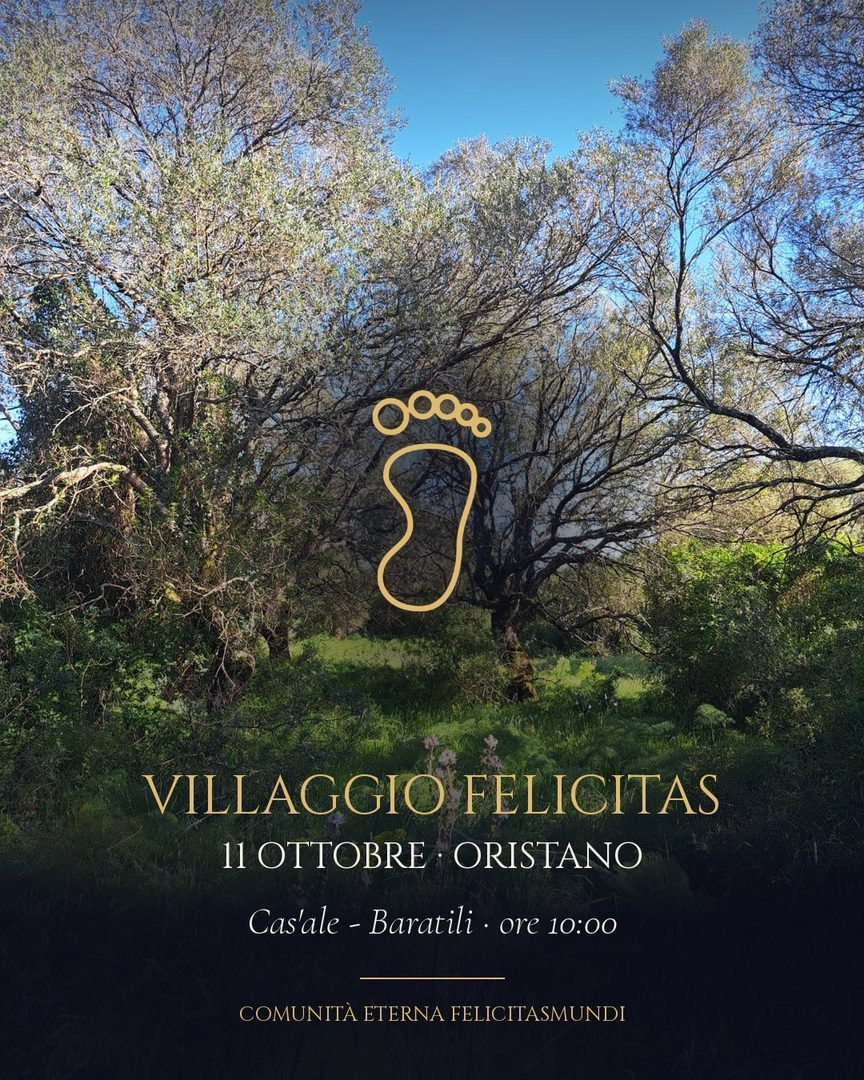
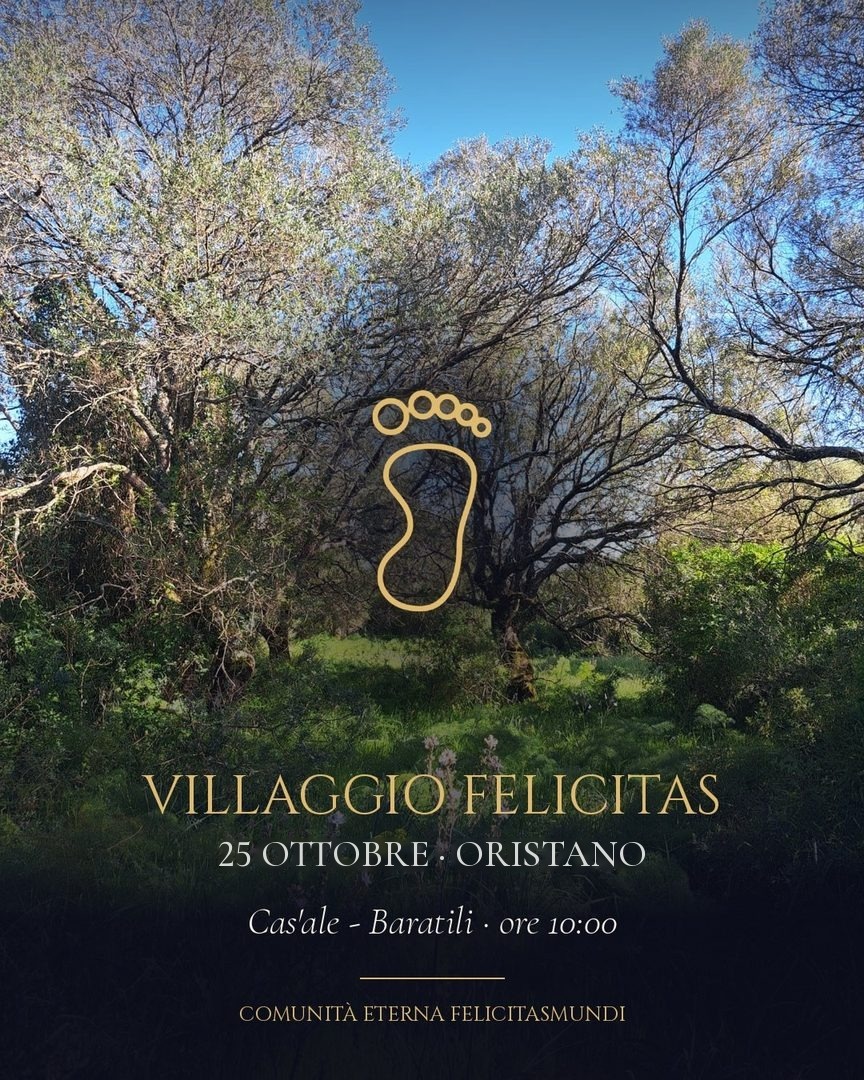
L'incontro del Villaggio Felicitas passa al 25 ottobre: vetrina, inviti, immagini, testo di WhatsApp
Claude-Session: https://claude.ai/code/session_01LfRssmsk3sgs8MPzqQCKWN

Changed region(s): [[0.25, 0.7639, 0.5, 0.825], [0.5312, 0.7639, 0.75, 0.825]]

diff --git a/index.html b/index.html
@@ -21,7 +21,7 @@
 <meta property="og:title" content="FelicitasMundi · Comunità Eterna">
 <meta property="og:description" content="Una piattaforma che connette comunità contadine e spirituali: villaggi, eventi, Emporio, Assistenza, Scuola.">
 <meta property="og:url" content="https://app.felicitasmundi.com/">
-<meta property="og:image" content="https://app.felicitasmundi.com/communitas-aeterna/inviti/11-ottobre-largo.jpg">
+<meta property="og:image" content="https://app.felicitasmundi.com/communitas-aeterna/inviti/11-ottobre-largo.jpg?v=25">
 <meta property="og:image:width" content="1200">
 <meta property="og:image:height" content="630">
 <meta name="twitter:card" content="summary_large_image">
@@ -32,9 +32,9 @@
 {"@context":"https://schema.org","@graph":[
  {"@type":"Organization","name":"FelicitasMundi · Comunità Eterna","url":"https://app.felicitasmundi.com/","logo":"https://app.felicitasmundi.com/communitas-aeterna/felicitas-icona.png?v=1004",
   "legalName":"Felicitas Omnia S.r.l.s.","address":{"@type":"PostalAddress","addressLocality":"Sassari","addressCountry":"IT"},"vatID":"IT03075740906"},
- {"@type":"Event","name":"Villaggio Felicitas - 11 ottobre Oristano","startDate":"2026-10-11T10:00:00+02:00","eventAttendanceMode":"https://schema.org/OfflineEventAttendanceMode","eventStatus":"https://schema.org/EventScheduled",
+ {"@type":"Event","name":"Villaggio Felicitas - 25 ottobre Oristano","startDate":"2026-10-25T10:00:00+02:00","eventAttendanceMode":"https://schema.org/OfflineEventAttendanceMode","eventStatus":"https://schema.org/EventScheduled",
   "location":{"@type":"Place","name":"Cas'ale di Alessandra","address":{"@type":"PostalAddress","addressLocality":"Baratili San Pietro","addressRegion":"OR","addressCountry":"IT"}},
-  "image":"https://app.felicitasmundi.com/communitas-aeterna/inviti/11-ottobre-largo.jpg",
+  "image":"https://app.felicitasmundi.com/communitas-aeterna/inviti/11-ottobre-largo.jpg?v=25",
   "description":"Il primo incontro tra i vicinati della Sardegna, al Cas'ale di Alessandra, zona Baratili, pochi chilometri da Oristano.",
   "organizer":{"@type":"Organization","name":"FelicitasMundi","url":"https://app.felicitasmundi.com/"},
   "url":"https://app.felicitasmundi.com/communitas-aeterna/index.html?p=evento&e=1d8ba038-2393-49fb-9493-3511c9e3ded6"}
@@ -115,17 +115,17 @@
       <a class="tasto vuoto" href="#villaggi">trova il tuo villaggio</a>
     </div>
   </div>
-  <a href="communitas-aeterna/index.html?p=evento&amp;e=1d8ba038-2393-49fb-9493-3511c9e3ded6"><img src="communitas-aeterna/inviti/11-ottobre-largo.jpg" alt="Villaggio Felicitas, 11 ottobre, Oristano" width="1200" height="630"></a>
+  <a href="communitas-aeterna/index.html?p=evento&amp;e=1d8ba038-2393-49fb-9493-3511c9e3ded6"><img src="communitas-aeterna/inviti/11-ottobre-largo.jpg?v=25" alt="Villaggio Felicitas, 25 ottobre, Oristano" width="1200" height="630"></a>
 </div>
 
 <section id="eventi">
   <div class="w">
     <div class="testa"><h2>Eventi</h2></div>
     <a class="ev" href="communitas-aeterna/index.html?p=evento&amp;e=1d8ba038-2393-49fb-9493-3511c9e3ded6">
-      <img src="communitas-aeterna/inviti/11-ottobre-largo.jpg" alt="">
+      <img src="communitas-aeterna/inviti/11-ottobre-largo.jpg?v=25" alt="">
       <div>
-        <span class="eti">domenica 11 ottobre · ore 10:00</span>
-        <h3>Villaggio Felicitas - 11 ottobre Oristano</h3>
+        <span class="eti">domenica 25 ottobre · ore 10:00</span>
+        <h3>Villaggio Felicitas - 25 ottobre Oristano</h3>
         <p class="cor">Il primo incontro tra i vicinati della Sardegna, al Cas'ale di Alessandra, zona Baratili, pochi chilometri da Oristano.</p>
         <span class="eti" style="letter-spacing:.14em">ci sarò ›</span>
       </div>

diff --git a/villaggio-felicitas-sardegna/invito-11-ottobre.html b/villaggio-felicitas-sardegna/invito-11-ottobre.html
@@ -7,27 +7,27 @@
      WhatsApp e i social non eseguono il codice della pagina: leggono solo queste righe. Questa pagina le ha,
      poi porta subito all'evento. 16:54, Gab: «preferirei invito 11 ottobre e un riferimento al villaggio felicitas
      sardegna» — l'indirizzo dice il villaggio e l'invito, non chi lo manda. -->
-<title>Villaggio Felicitas - 11 ottobre Oristano</title>
-<meta name="description" content="Il primo incontro tra i vicinati della Sardegna: logistica del territorio, punti di ritiro, Felicitas Festival, karma yoga. 11 ottobre, ore 10:00.">
+<title>Villaggio Felicitas - 25 ottobre Oristano</title>
+<meta name="description" content="Il primo incontro tra i vicinati della Sardegna: logistica del territorio, punti di ritiro, Felicitas Festival, karma yoga. 25 ottobre, ore 10:00.">
 <meta property="og:type" content="website">
 <meta property="og:site_name" content="Comunità Eterna FelicitasMundi">
-<meta property="og:title" content="Villaggio Felicitas - 11 ottobre Oristano">
-<meta property="og:description" content="Il primo incontro tra i vicinati della Sardegna: logistica del territorio, punti di ritiro, Felicitas Festival, karma yoga. 11 ottobre, ore 10:00.">
+<meta property="og:title" content="Villaggio Felicitas - 25 ottobre Oristano">
+<meta property="og:description" content="Il primo incontro tra i vicinati della Sardegna: logistica del territorio, punti di ritiro, Felicitas Festival, karma yoga. 25 ottobre, ore 10:00.">
 <meta property="og:url" content="https://app.felicitasmundi.com/villaggio-felicitas-sardegna/invito-11-ottobre.html">
-<meta property="og:image" content="https://app.felicitasmundi.com/communitas-aeterna/inviti/11-ottobre-largo.jpg">
-<meta property="og:image:secure_url" content="https://app.felicitasmundi.com/communitas-aeterna/inviti/11-ottobre-largo.jpg">
+<meta property="og:image" content="https://app.felicitasmundi.com/communitas-aeterna/inviti/11-ottobre-largo.jpg?v=25">
+<meta property="og:image:secure_url" content="https://app.felicitasmundi.com/communitas-aeterna/inviti/11-ottobre-largo.jpg?v=25">
 <meta property="og:image:type" content="image/jpeg">
 <meta property="og:image:width" content="1200">
 <meta property="og:image:height" content="630">
-<meta property="og:image:alt" content="Villaggio Felicitas · 11 ottobre · Oristano · Cas'ale - Baratili · ore 10:00">
+<meta property="og:image:alt" content="Villaggio Felicitas · 25 ottobre · Oristano · Cas'ale - Baratili · ore 10:00">
 <meta name="twitter:card" content="summary_large_image">
-<meta name="twitter:image" content="https://app.felicitasmundi.com/communitas-aeterna/inviti/11-ottobre-largo.jpg">
+<meta name="twitter:image" content="https://app.felicitasmundi.com/communitas-aeterna/inviti/11-ottobre-largo.jpg?v=25">
 <style>html,body{margin:0;background:#0A0C1A;color:#F5F0E6;font-family:Georgia,serif;min-height:100vh;display:flex;align-items:center;justify-content:center}a{color:#D4AF6A}</style>
 <script>
   location.replace("/communitas-aeterna/index.html?p=evento&e=1d8ba038-2393-49fb-9493-3511c9e3ded6");
 </script>
 </head>
 <body>
-<p><a href="/communitas-aeterna/index.html?p=evento&amp;e=1d8ba038-2393-49fb-9493-3511c9e3ded6">Villaggio Felicitas · 11 ottobre · Oristano</a></p>
+<p><a href="/communitas-aeterna/index.html?p=evento&amp;e=1d8ba038-2393-49fb-9493-3511c9e3ded6">Villaggio Felicitas · 25 ottobre · Oristano</a></p>
 </body>
 </html>

diff --git a/communitas-aeterna-prova/inviti/11-ottobre.html b/communitas-aeterna-prova/inviti/11-ottobre.html
@@ -6,21 +6,21 @@
 <!-- ⭐ 2 ottobre 2026, Gab: «su whatsapp non si vede foto … non c'è nulla di attraente, né titolo né descrizione».
      WhatsApp e i social non eseguono il codice della pagina: leggono solo queste righe. Questa pagina le ha,
      poi porta subito all'evento e si porta dietro l'invito (?invito=…). -->
-<title>Villaggio Felicitas - 11 ottobre Oristano</title>
-<meta name="description" content="Il primo incontro tra vicinati, al Cas'ale di Alessandra, zona Baratili, pochi chilometri da Oristano. 11 ottobre, ore 10:00.">
+<title>Villaggio Felicitas - 25 ottobre Oristano</title>
+<meta name="description" content="Il primo incontro tra vicinati, al Cas'ale di Alessandra, zona Baratili, pochi chilometri da Oristano. 25 ottobre, ore 10:00.">
 <meta property="og:type" content="website">
 <meta property="og:site_name" content="Comunità Eterna FelicitasMundi">
-<meta property="og:title" content="Villaggio Felicitas - 11 ottobre Oristano">
-<meta property="og:description" content="Il primo incontro tra vicinati, al Cas'ale di Alessandra, zona Baratili, pochi chilometri da Oristano. 11 ottobre, ore 10:00.">
+<meta property="og:title" content="Villaggio Felicitas - 25 ottobre Oristano">
+<meta property="og:description" content="Il primo incontro tra vicinati, al Cas'ale di Alessandra, zona Baratili, pochi chilometri da Oristano. 25 ottobre, ore 10:00.">
 <meta property="og:url" content="https://app.felicitasmundi.com/communitas-aeterna/inviti/11-ottobre.html">
-<meta property="og:image" content="https://app.felicitasmundi.com/communitas-aeterna/inviti/11-ottobre.jpg">
-<meta property="og:image:secure_url" content="https://app.felicitasmundi.com/communitas-aeterna/inviti/11-ottobre.jpg">
+<meta property="og:image" content="https://app.felicitasmundi.com/communitas-aeterna/inviti/11-ottobre.jpg?v=25">
+<meta property="og:image:secure_url" content="https://app.felicitasmundi.com/communitas-aeterna/inviti/11-ottobre.jpg?v=25">
 <meta property="og:image:type" content="image/jpeg">
 <meta property="og:image:width" content="864">
 <meta property="og:image:height" content="1080">
-<meta property="og:image:alt" content="Villaggio Felicitas · 11 ottobre · Oristano · Cas'ale - Baratili · ore 10:00">
+<meta property="og:image:alt" content="Villaggio Felicitas · 25 ottobre · Oristano · Cas'ale - Baratili · ore 10:00">
 <meta name="twitter:card" content="summary_large_image">
-<meta name="twitter:image" content="https://app.felicitasmundi.com/communitas-aeterna/inviti/11-ottobre.jpg">
+<meta name="twitter:image" content="https://app.felicitasmundi.com/communitas-aeterna/inviti/11-ottobre.jpg?v=25">
 <style>html,body{margin:0;background:#0A0C1A;color:#F5F0E6;font-family:Georgia,serif;min-height:100vh;display:flex;align-items:center;justify-content:center}a{color:#D4AF6A}</style>
 <script>
   /* all'evento, portando l'invito */
@@ -31,6 +31,6 @@
 </script>
 </head>
 <body>
-<p><a href="../index.html?p=evento&amp;e=1d8ba038-2393-49fb-9493-3511c9e3ded6">Villaggio Felicitas · 11 ottobre · Oristano</a></p>
+<p><a href="../index.html?p=evento&amp;e=1d8ba038-2393-49fb-9493-3511c9e3ded6">Villaggio Felicitas · 25 ottobre · Oristano</a></p>
 </body>
 </html>

diff --git a/communitas-aeterna/inviti/11-ottobre.html b/communitas-aeterna/inviti/11-ottobre.html
@@ -6,21 +6,21 @@
 <!-- ⭐ 2 ottobre 2026, Gab: «su whatsapp non si vede foto … non c'è nulla di attraente, né titolo né descrizione».
      WhatsApp e i social non eseguono il codice della pagina: leggono solo queste righe. Questa pagina le ha,
      poi porta subito all'evento e si porta dietro l'invito (?invito=…). -->
-<title>Villaggio Felicitas - 11 ottobre Oristano</title>
-<meta name="description" content="Il primo incontro tra vicinati, al Cas'ale di Alessandra, zona Baratili, pochi chilometri da Oristano. 11 ottobre, ore 10:00.">
+<title>Villaggio Felicitas - 25 ottobre Oristano</title>
+<meta name="description" content="Il primo incontro tra vicinati, al Cas'ale di Alessandra, zona Baratili, pochi chilometri da Oristano. 25 ottobre, ore 10:00.">
 <meta property="og:type" content="website">
 <meta property="og:site_name" content="Comunità Eterna FelicitasMundi">
-<meta property="og:title" content="Villaggio Felicitas - 11 ottobre Oristano">
-<meta property="og:description" content="Il primo incontro tra vicinati, al Cas'ale di Alessandra, zona Baratili, pochi chilometri da Oristano. 11 ottobre, ore 10:00.">
+<meta property="og:title" content="Villaggio Felicitas - 25 ottobre Oristano">
+<meta property="og:description" content="Il primo incontro tra vicinati, al Cas'ale di Alessandra, zona Baratili, pochi chilometri da Oristano. 25 ottobre, ore 10:00.">
 <meta property="og:url" content="https://app.felicitasmundi.com/communitas-aeterna/inviti/11-ottobre.html">
-<meta property="og:image" content="https://app.felicitasmundi.com/communitas-aeterna/inviti/11-ottobre.jpg">
-<meta property="og:image:secure_url" content="https://app.felicitasmundi.com/communitas-aeterna/inviti/11-ottobre.jpg">
+<meta property="og:image" content="https://app.felicitasmundi.com/communitas-aeterna/inviti/11-ottobre.jpg?v=25">
+<meta property="og:image:secure_url" content="https://app.felicitasmundi.com/communitas-aeterna/inviti/11-ottobre.jpg?v=25">
 <meta property="og:image:type" content="image/jpeg">
 <meta property="og:image:width" content="864">
 <meta property="og:image:height" content="1080">
-<meta property="og:image:alt" content="Villaggio Felicitas · 11 ottobre · Oristano · Cas'ale - Baratili · ore 10:00">
+<meta property="og:image:alt" content="Villaggio Felicitas · 25 ottobre · Oristano · Cas'ale - Baratili · ore 10:00">
 <meta name="twitter:card" content="summary_large_image">
-<meta name="twitter:image" content="https://app.felicitasmundi.com/communitas-aeterna/inviti/11-ottobre.jpg">
+<meta name="twitter:image" content="https://app.felicitasmundi.com/communitas-aeterna/inviti/11-ottobre.jpg?v=25">
 <style>html,body{margin:0;background:#0A0C1A;color:#F5F0E6;font-family:Georgia,serif;min-height:100vh;display:flex;align-items:center;justify-content:center}a{color:#D4AF6A}</style>
 <script>
   /* all'evento, portando l'invito */
@@ -31,6 +31,6 @@
 </script>
 </head>
 <body>
-<p><a href="../index.html?p=evento&amp;e=1d8ba038-2393-49fb-9493-3511c9e3ded6">Villaggio Felicitas · 11 ottobre · Oristano</a></p>
+<p><a href="../index.html?p=evento&amp;e=1d8ba038-2393-49fb-9493-3511c9e3ded6">Villaggio Felicitas · 25 ottobre · Oristano</a></p>
 </body>
 </html>

diff --git a/communitas-aeterna-prova/APP.FELICITASMUNDI/piatti/fm-invito.js b/communitas-aeterna-prova/APP.FELICITASMUNDI/piatti/fm-invito.js
@@ -28,7 +28,7 @@
   /* le pagine d'anteprima fatte apposta per un evento (inviti/<nome>.html) */
   var PAGINE = { "1d8ba038-2393-49fb-9493-3511c9e3ded6": "villaggio-felicitas-sardegna/invito-11-ottobre.html?v=2" };
   /* ⭐ 2 ottobre 21:34, Gab: nel messaggio le righe che spiegano cosa si va a fare, il link alla fine */
-  var TESTI = { "1d8ba038-2393-49fb-9493-3511c9e3ded6": "Villaggio Felicitas · 11 ottobre, ore 10:00 · al Cas'ale di Alessandra, Baratili (Oristano).\n\nIl primo incontro tra i vicinati della Sardegna. Mettiamo in piedi un contesto logistico per raccogliere la domanda del territorio — alimenti, energia, libri, produzioni in grande quantità — e dividerci il costo, con i punti di ritiro e i vicini che portano i pacchi.\n\nPrepariamo insieme il Felicitas Festival e partiamo col karma yoga: ognuno porta le sue proposte, e riconosciamo il talento e il valore di chi partecipa.\n\nAperto a chi punta all'autosufficienza alimentare ed energetica, ai gruppi solidali, alle terapie naturali, all'educazione, all'artigianato: a tutti i progetti che tengono viva la civiltà sarda." };
+  var TESTI = { "1d8ba038-2393-49fb-9493-3511c9e3ded6": "Villaggio Felicitas · 25 ottobre, ore 10:00 · al Cas'ale di Alessandra, Baratili (Oristano).\n\nIl primo incontro tra i vicinati della Sardegna. Mettiamo in piedi un contesto logistico per raccogliere la domanda del territorio — alimenti, energia, libri, produzioni in grande quantità — e dividerci il costo, con i punti di ritiro e i vicini che portano i pacchi.\n\nPrepariamo insieme il Felicitas Festival e partiamo col karma yoga: ognuno porta le sue proposte, e riconosciamo il talento e il valore di chi partecipa.\n\nAperto a chi punta all'autosufficienza alimentare ed energetica, ai gruppi solidali, alle terapie naturali, all'educazione, all'artigianato: a tutti i progetti che tengono viva la civiltà sarda." };
 
   async function leggi() {
     var d = { io: null, nome: "", slug: "", quanti: 0 };

diff --git a/communitas-aeterna/APP.FELICITASMUNDI/piatti/fm-invito.js b/communitas-aeterna/APP.FELICITASMUNDI/piatti/fm-invito.js
@@ -28,7 +28,7 @@
   /* le pagine d'anteprima fatte apposta per un evento (inviti/<nome>.html) */
   var PAGINE = { "1d8ba038-2393-49fb-9493-3511c9e3ded6": "villaggio-felicitas-sardegna/invito-11-ottobre.html?v=2" };
   /* ⭐ 2 ottobre 21:34, Gab: nel messaggio le righe che spiegano cosa si va a fare, il link alla fine */
-  var TESTI = { "1d8ba038-2393-49fb-9493-3511c9e3ded6": "Villaggio Felicitas · 11 ottobre, ore 10:00 · al Cas'ale di Alessandra, Baratili (Oristano).\n\nIl primo incontro tra i vicinati della Sardegna. Mettiamo in piedi un contesto logistico per raccogliere la domanda del territorio — alimenti, energia, libri, produzioni in grande quantità — e dividerci il costo, con i punti di ritiro e i vicini che portano i pacchi.\n\nPrepariamo insieme il Felicitas Festival e partiamo col karma yoga: ognuno porta le sue proposte, e riconosciamo il talento e il valore di chi partecipa.\n\nAperto a chi punta all'autosufficienza alimentare ed energetica, ai gruppi solidali, alle terapie naturali, all'educazione, all'artigianato: a tutti i progetti che tengono viva la civiltà sarda." };
+  var TESTI = { "1d8ba038-2393-49fb-9493-3511c9e3ded6": "Villaggio Felicitas · 25 ottobre, ore 10:00 · al Cas'ale di Alessandra, Baratili (Oristano).\n\nIl primo incontro tra i vicinati della Sardegna. Mettiamo in piedi un contesto logistico per raccogliere la domanda del territorio — alimenti, energia, libri, produzioni in grande quantità — e dividerci il costo, con i punti di ritiro e i vicini che portano i pacchi.\n\nPrepariamo insieme il Felicitas Festival e partiamo col karma yoga: ognuno porta le sue proposte, e riconosciamo il talento e il valore di chi partecipa.\n\nAperto a chi punta all'autosufficienza alimentare ed energetica, ai gruppi solidali, alle terapie naturali, all'educazione, all'artigianato: a tutti i progetti che tengono viva la civiltà sarda." };
 
   async function leggi() {
     var d = { io: null, nome: "", slug: "", quanti: 0 };

diff --git a/communitas-aeterna-prova/APP.FELICITASMUNDI/piatti/casa-piatto.html b/communitas-aeterna-prova/APP.FELICITASMUNDI/piatti/casa-piatto.html
@@ -205,8 +205,8 @@ html.in-app,html.in-app body{overflow:visible;overflow-x:clip}
 
  <!-- ① villaggi e festival: la prima cosa che si vede -->
  <section class="vf">
-  <div class="vfc grande" data-r="evento&amp;e=1d8ba038-2393-49fb-9493-3511c9e3ded6" style="background-image:linear-gradient(to top,rgba(7,11,24,.95) 20%,rgba(7,11,24,.1) 70%),url(../../articoli/2026/incontro-11-ottobre.jpg)">
-   <span class="eti">Villaggi Felicitas</span><b>11 ottobre · Baratili, Oristano</b><small>il primo incontro tra i vicinati della Sardegna</small><span class="vai">ci sarò ›</span>
+  <div class="vfc grande" data-r="evento&amp;e=1d8ba038-2393-49fb-9493-3511c9e3ded6" style="background-image:linear-gradient(to top,rgba(7,11,24,.95) 20%,rgba(7,11,24,.1) 70%),url(../../articoli/2026/incontro-11-ottobre.jpg?v=25)">
+   <span class="eti">Villaggi Felicitas</span><b>25 ottobre · Baratili, Oristano</b><small>il primo incontro tra i vicinati della Sardegna</small><span class="vai">ci sarò ›</span>
   </div>
   <div class="vfc" data-r="vicinati" style="background-image:linear-gradient(to top,rgba(7,11,24,.95) 25%,rgba(7,11,24,.2) 75%),url(../../inviti/felicitas.jpg)">
    <span class="eti">Felicitas Festival</span><b>21 novembre · Oristano</b><small>il festival dei villaggi</small><span class="vai">scopri ›</span>
